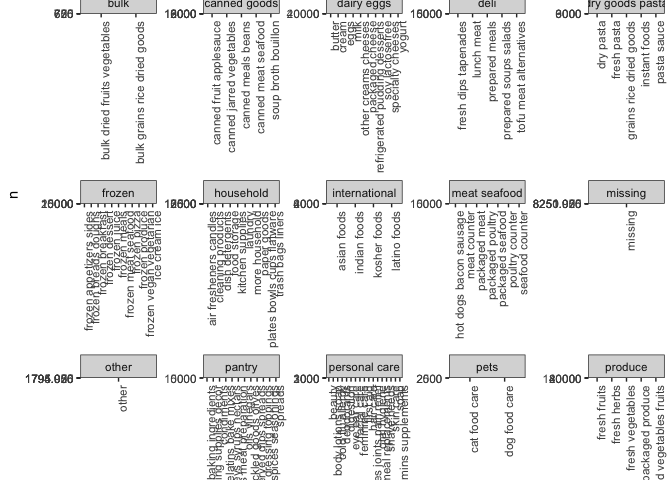
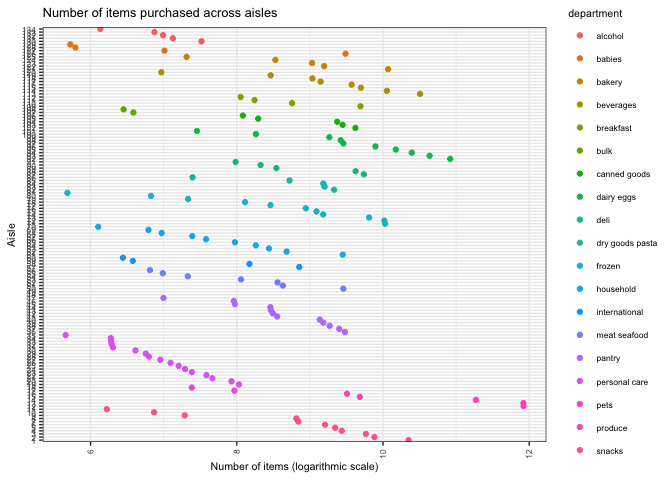
make n per aisle plot more readable

diff --git a/p8105_hw3_amv2187.md b/p8105_hw3_amv2187.md
@@ -136,6 +136,7 @@ aisles = instacart %>%
   count %>%
   arrange(department, n)
   
+  
 nrow(aisles)
 ```
 
@@ -175,20 +176,26 @@ instacart %>%
     ## # ... with 124 more rows
 
 ``` r
-ggplot(aisles, aes(x = aisle, y = n, color = department)) +
+aisles %>%
+  ungroup %>%
+  filter(!(aisle %in% c('missing', 'other'))) %>%
+  mutate(aisle_id = as.character(aisle_id)) %>%
+  ggplot(aes(y = aisle, x = log(n), color = department)) +
   geom_point(stat = 'identity') +
-  facet_wrap(.~department, scales = 'free') +
+  facet_grid(department ~ ., scales = 'free', space = 'free') +
   labs(
     title = 'Number of items purchased across aisles',
-    x = 'Aisle'
+    x = 'Number of items (logarithmic scale)',
+    y = 'Aisle'
   ) +
   #scale_y_continuous(limits = c(0, 50000)) +
-  #scale_x_discrete(limits = aisles$aisle) +
-  theme(axis.text.x = element_text(angle = 90, hjust = 1),
+  #scale_y_discrete(limits = rev(aisles$aisle)) +
+  theme(axis.text.x = element_text(angle = 90, hjust = 1, vjust = 0.5),
+        text = element_text(size = 8),
         legend.position = 'none')
 ```
 
-![](p8105_hw3_amv2187_files/figure-markdown_github/unnamed-chunk-4-1.png)
+![](p8105_hw3_amv2187_files/figure-markdown_github/unnamed-chunk-5-1.png)
 
 ``` r
 items = instacart %>%
